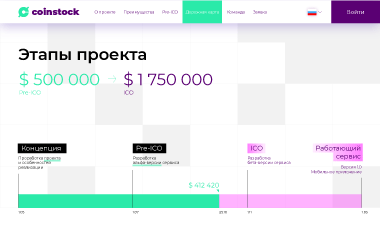
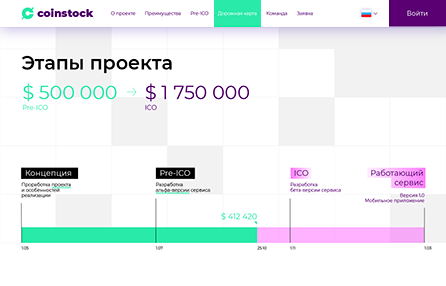
Правки +

diff --git a/css/style.css b/css/style.css
@@ -18,22 +18,22 @@ body {
 main {
   position: relative;
   width: 899px;
-  padding-left: 225px;
+  padding-left: 230px;
   padding-right: 20px;
-  padding-bottom: 30px;
+  padding-bottom: 50px;
   /* margin: 0 auto; */
 }
 
 .info {
   position: fixed;
   width: 195px;
-  margin-left: -210px;
+  margin-left: -215px;
   display: flex;
   flex-direction: column;
   justify-content: space-between;
-  height: 92vh;
-  border-right: 1px solid #333;
-  top: 30px;
+  height: 88vh;
+  /* border-right: 1px solid #333; */
+  top: 35px;
 }
 
 .photo {
@@ -49,7 +49,7 @@ main {
 }
 
 .name {
-  font-size: 21px;
+  font-size: 24px;
   line-height: 1.3;
   margin-bottom: 40px;
 }
@@ -59,11 +59,11 @@ main {
 
 .menu-item {
   display: block;
-  font-size: 14px;
+  font-size: 16px;
   line-height: 1;
   color: white;
   text-decoration: none;
-  padding: 11px 0;
+  padding: 12px 0;
 }
 
 .menu-item span {
@@ -106,7 +106,7 @@ main {
 .contacts a {
   display: block;
   margin: 0;
-  margin-right: 12px;
+  margin-right: 14px;
   background-color: white;
   border-radius: 50%;
 }
@@ -125,7 +125,7 @@ main {
 }
 
 .contacts a.email {
-  font-size: 17px;
+  font-size: 16px;
   line-height: 1.2;
   padding: 6px 0;
   text-decoration: none;
@@ -174,9 +174,9 @@ h2 {
   font-size: 50px;
   line-height: 1;
   color: white;
-  padding-top: 25px;
+  padding-top: 30px;
   margin: 0;
-  margin-bottom: 40px;
+  margin-bottom: 22px;
   position: relative;
   width: 100%;
 }
@@ -216,8 +216,8 @@ h2 {
   position: absolute;
   top: 0;
   right: 0;
-  width: 140px;
-  height: 140px;
+  width: 120px;
+  height: 120px;
   background-image: url(../img/zoom.svg);
   background-repeat: no-repeat;
   background-position: center;
@@ -303,14 +303,14 @@ h2 {
   display: block;
 }
 
-@media (max-width: 1160px) {
+@media (max-width: 1165px) {
   main {
     padding-left: 170px;
   }
 
   .info {
     width: 148px;
-    margin-left: -160px;
+    margin-left: -155px;
   }
 
   .photo {
@@ -334,8 +334,8 @@ h2 {
   }
 
   .contacts a svg {
-    width: 35px;
-    height: 35px;
+    width: 33px;
+    height: 33px;
   }
 
   .contacts a.email {
@@ -345,6 +345,5 @@ h2 {
 
   h2 {
     font-size: 45px;
-    margin-bottom: 30px;
   }
 }
